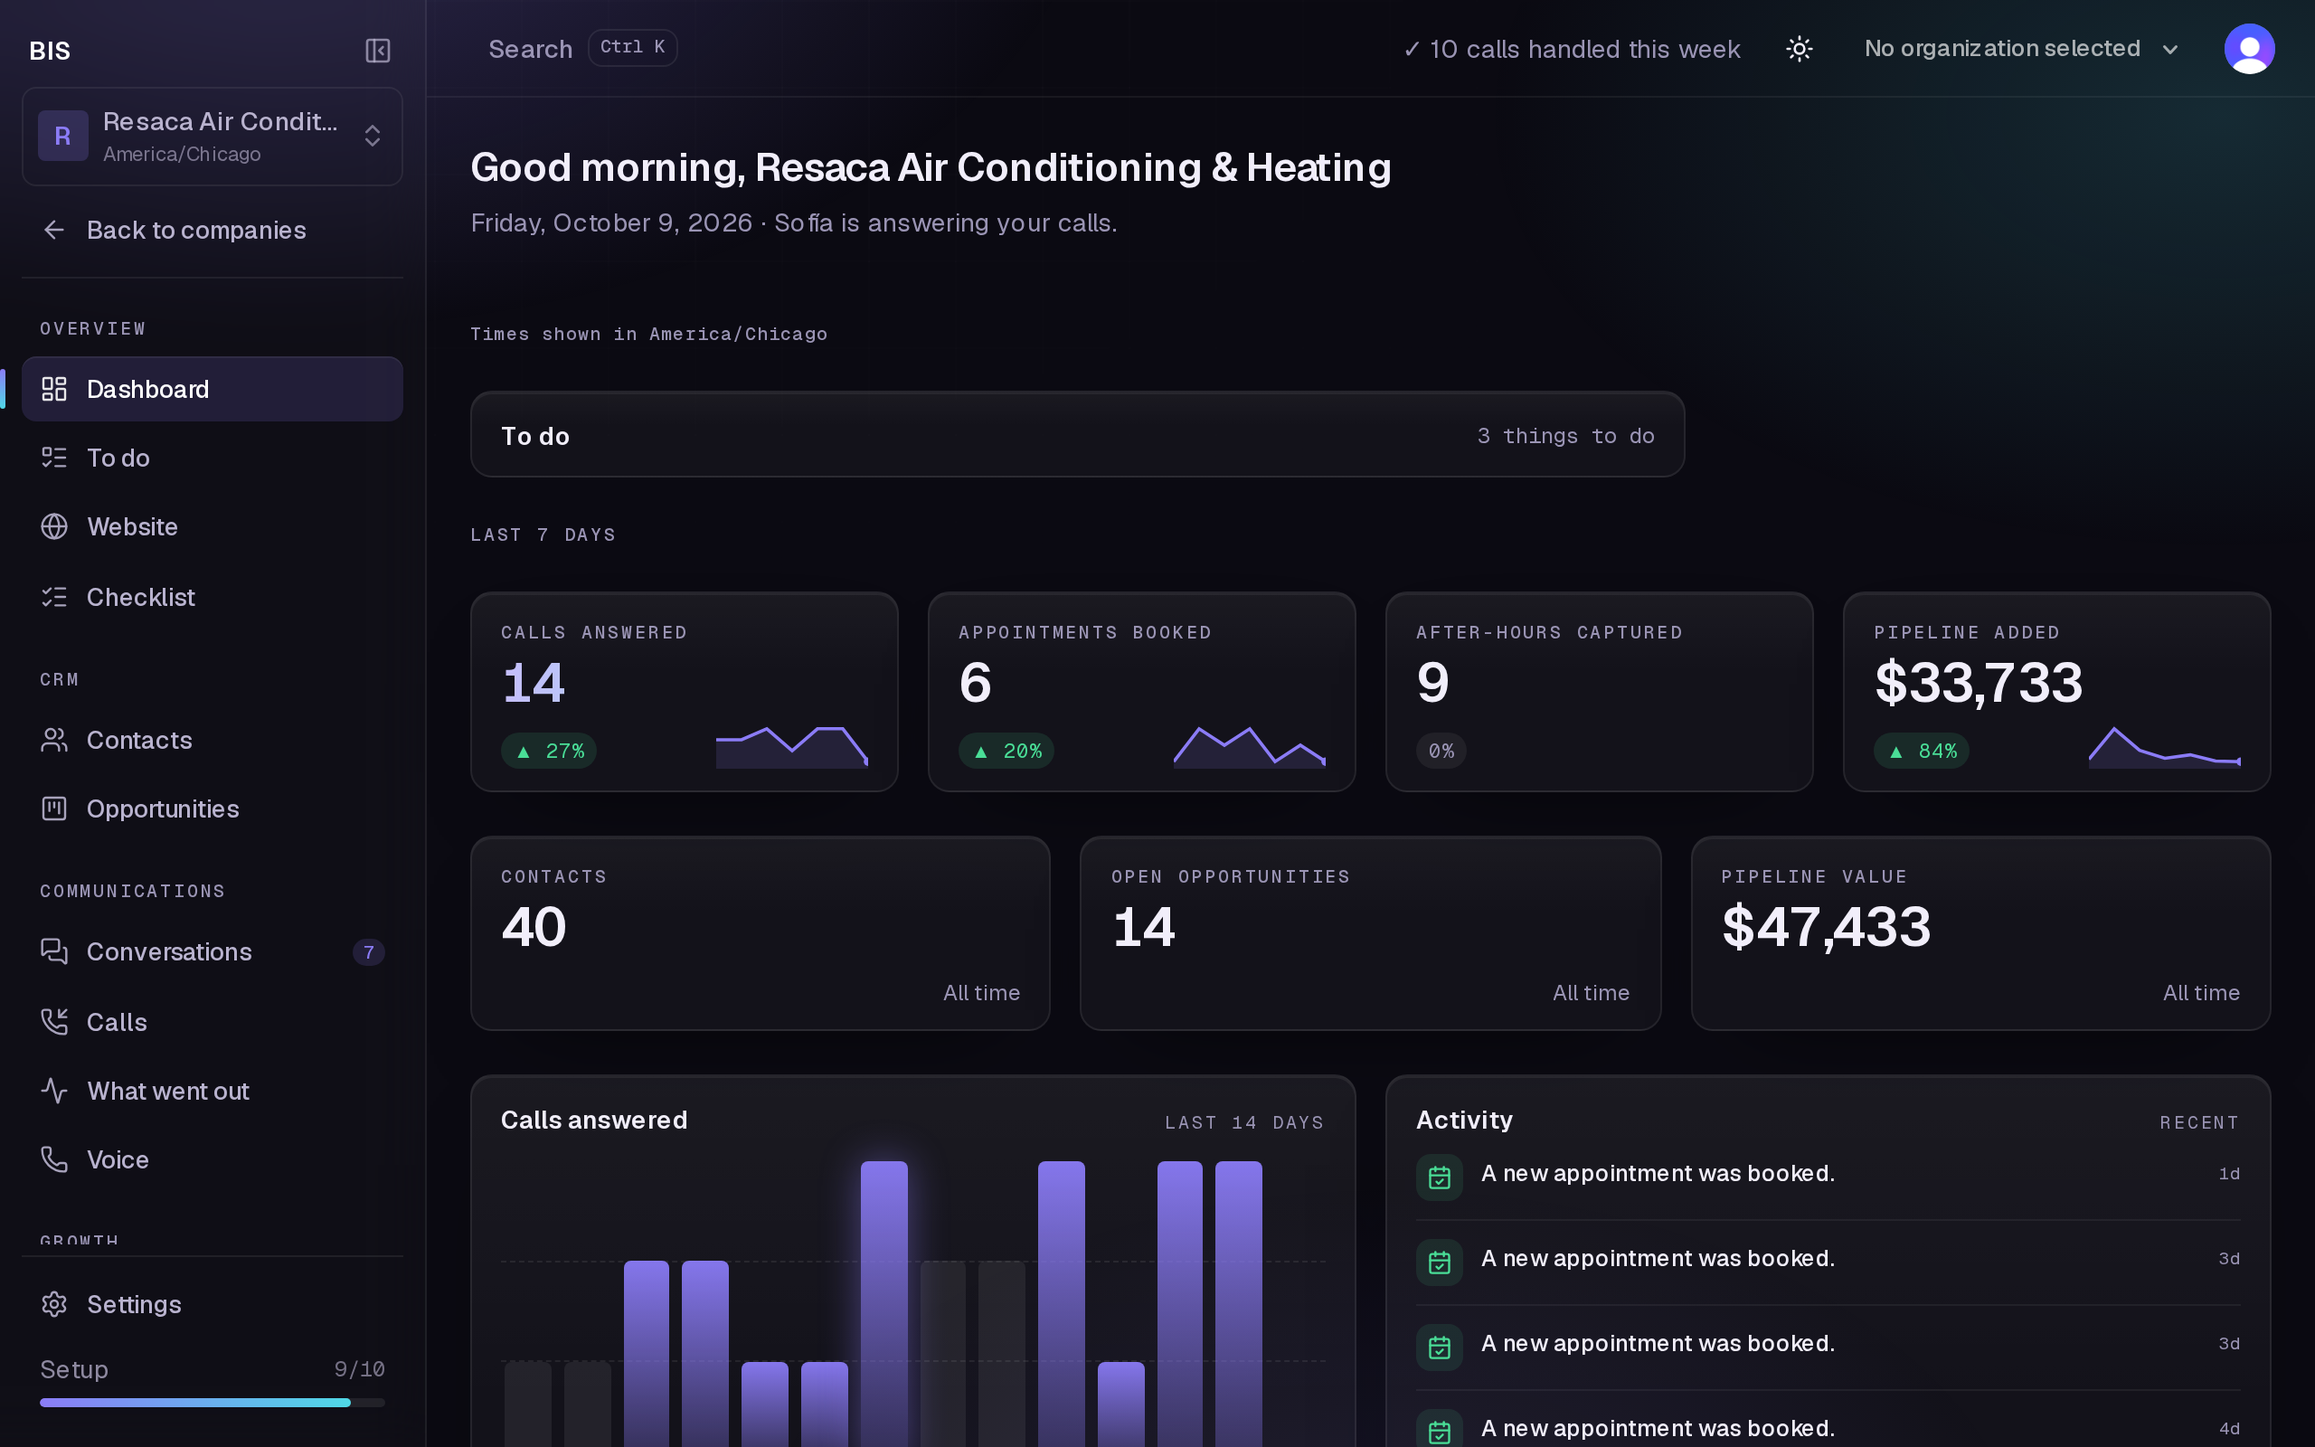
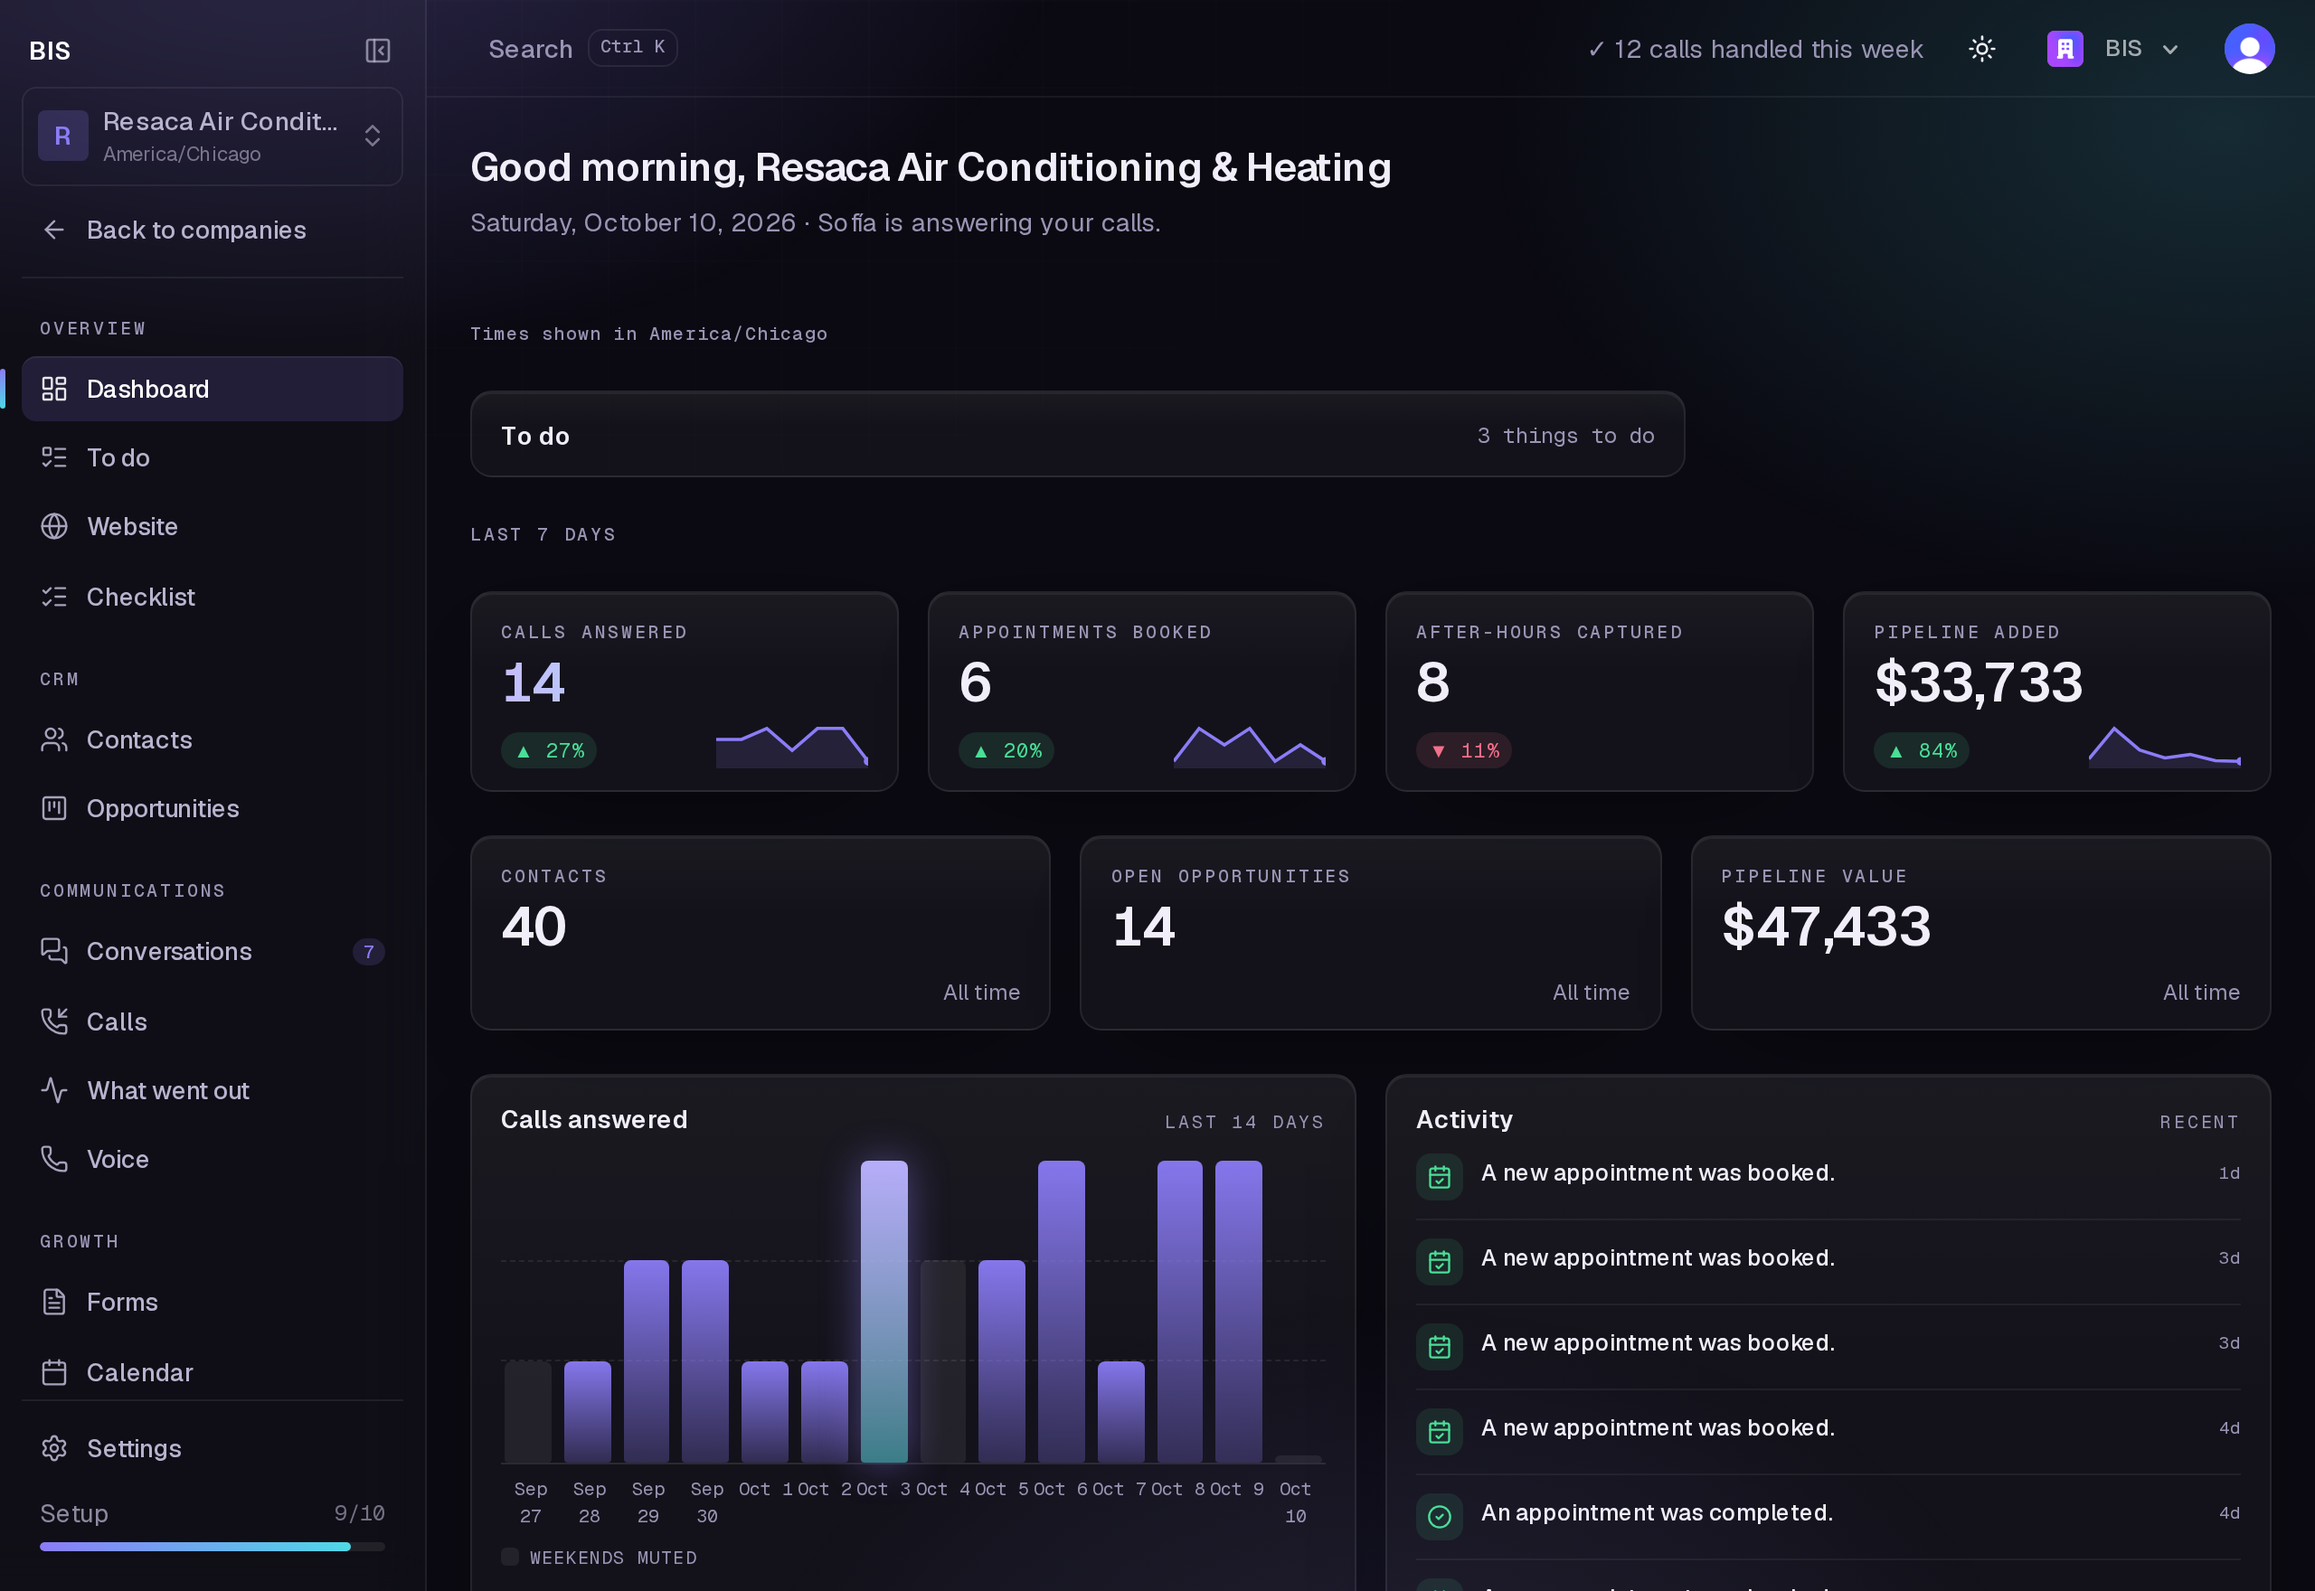
Screenshots: retake at 5 AM with "BIS" in the topbar and the chart's labels in frame
New captures from bis-platform screenshots.yml run 38043382876. Each one
was re-seeded and shot at 5:00 AM CDT on Sat Oct 10, on the CI database.
They are the first from a capture that includes bis-platform #222:
- the topbar switcher reads "BIS" instead of "No organization selected";
- the dashboard alone is shot taller (1280x880, so 2560x1760), and the
  calls chart's day labels and its "WEEKENDS MUTED" legend are now inside
  the frame.

heroShot declares 2560x1760 to match, so next/image reserves the right box.

The home page markers keep their pixel positions, since nothing above the
chart moved. Only their percentages change, by 1600/1760:
- 51 -> 46.4
- 47 -> 42.7
- 84 -> 76.4
Checked at 1440px and 390px: each still lands on its card.

The other five captures keep their sizes. The Spanish call is now Fri
Oct 9 at 8:50 PM, and the quoted line is unchanged.

Claude-Session: https://claude.ai/code/session_01HoAPGkJC14e8DDBrCd7inF

diff --git a/src/app/[locale]/page.tsx b/src/app/[locale]/page.tsx
@@ -39,11 +39,16 @@ export async function generateMetadata({ params }: { params: Promise<{ locale: s
  * Retaken 2026-10-09: a "LAST 7 DAYS" caption above the KPI row pushed the
  * KPIs and the activity feed down by 61px of 1250 (4.9%), so every marker
  * moved down 5 points to land on the same spot within its card.
+ *
+ * Retaken 2026-10-10: the capture is now 1760 tall rather than 1600, so the
+ * chart's day labels are in frame. The layout above did not move, so every
+ * marker keeps its pixel position and only the percentage changes:
+ * top × 1600 / 1760.
  */
 const SPOTS = [
-  { left: 34.5, top: 51 },
-  { left: 71, top: 47 },
-  { left: 80, top: 84 },
+  { left: 34.5, top: 46.4 },
+  { left: 71, top: 42.7 },
+  { left: 80, top: 76.4 },
 ] as const;
 
 /**

diff --git a/src/lib/platform-tour.ts b/src/lib/platform-tour.ts
@@ -112,7 +112,10 @@ export function tourShot(id: TourSectionId): ShotSlot {
 
 /** The hero capture, above the fold and separate from the alternating tour. */
 export const heroShot: ShotSlot = {
-  file: 'dashboard-dark.png', width: 2560, height: 1600,
+  // Taller than the tour's 2560x1600 since 2026-10-10: the capture shoots the
+  // dashboard alone at 1280x880 so the calls chart keeps its day labels
+  // (bis-platform screenshots/capture.spec.ts, `DASHBOARD`).
+  file: 'dashboard-dark.png', width: 2560, height: 1760,
 };
 
 const PUBLIC_SHOTS = path.join(process.cwd(), 'public', 'screenshots');
